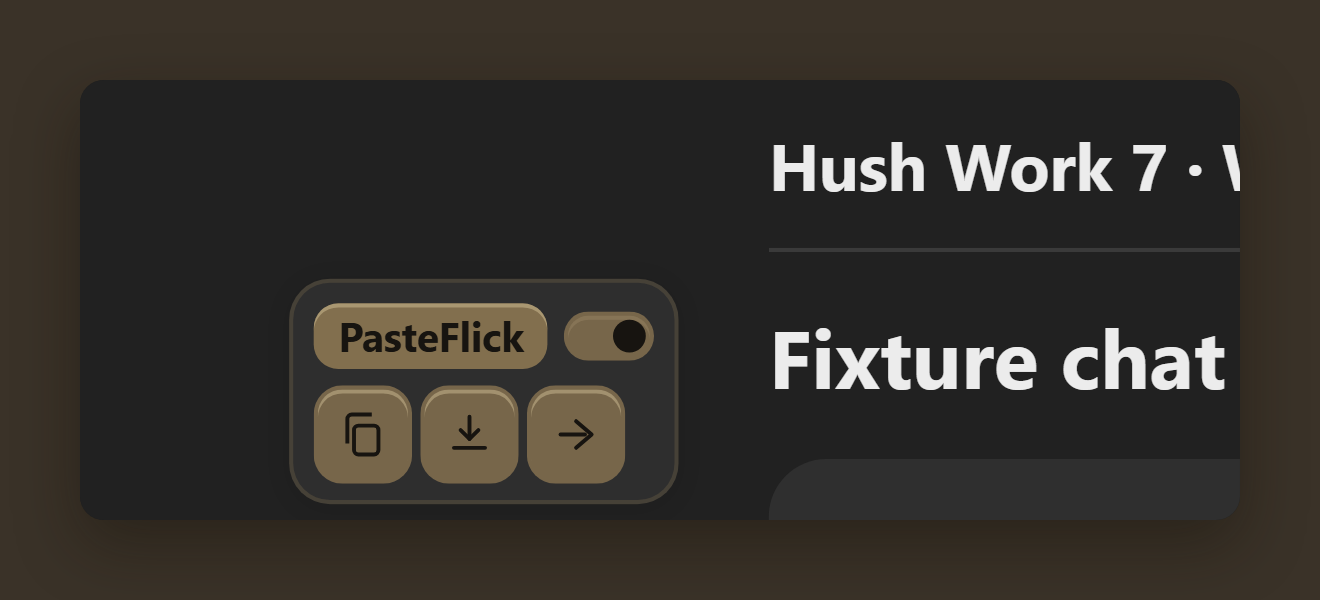
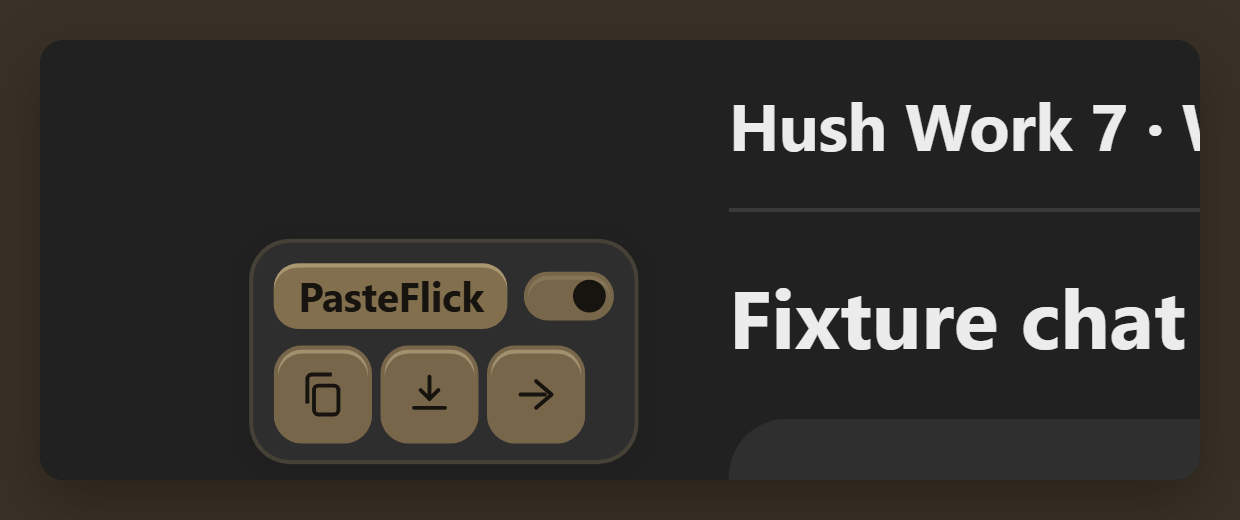
Keep the wood frame, just a thinner edge so the photos show more of the app.

diff --git a/readme/capture_shots.py b/readme/capture_shots.py
@@ -43,8 +43,8 @@ html,body{margin:0;height:100%;background:#3a3228;}
   display:flex;
   align-items:center;
   justify-content:center;
-  gap:32px;
-  padding:40px 36px;
+  gap:22px;
+  padding:16px 18px;
 }
 iframe{
   border:0;
@@ -81,7 +81,7 @@ html,body{margin:0;height:100%;background:#3a3228;}
   display:flex;
   align-items:center;
   justify-content:center;
-  padding:36px;
+  padding:16px;
 }
 .crop{
   width:580px;
@@ -133,7 +133,7 @@ html,body{{margin:0;height:100%;background:{page_bg};}}
   display:flex;
   align-items:center;
   justify-content:center;
-  padding:40px 36px;
+  padding:16px 18px;
 }}
 iframe{{border:0;width:{w}px;height:{h}px;border-radius:12px;overflow:hidden;
 box-shadow:0 12px 32px rgba(20,14,8,.4);background:{frame_bg};}}
@@ -228,11 +228,11 @@ def main() -> None:
     time.sleep(0.2)
     base = f"http://127.0.0.1:{port}"
     try:
-        shot(f"{base}/shot-chip.html", OUT / "chip.png", 660, 300, "FF3A3228")
-        shot(f"{base}/shot-pair.html", OUT / "windows.png", 760, 740, "FF3A3228")
-        shot(f"{base}/shot-popup.html", OUT / "popup.png", 380, 480, "FF3A3228")
-        shot(f"{base}/shot-settings.html", OUT / "settings.png", 380, 760, "FF3A3228")
-        shot(f"{base}/shot-chat.html", OUT / "chat.png", 1000, 820, "FF3A3228")
+        shot(f"{base}/shot-chip.html", OUT / "chip.png", 620, 260, "FF3A3228")
+        shot(f"{base}/shot-pair.html", OUT / "windows.png", 700, 690, "FF3A3228")
+        shot(f"{base}/shot-popup.html", OUT / "popup.png", 360, 410, "FF3A3228")
+        shot(f"{base}/shot-settings.html", OUT / "settings.png", 360, 690, "FF3A3228")
+        shot(f"{base}/shot-chat.html", OUT / "chat.png", 960, 760, "FF3A3228")
     finally:
         httpd.shutdown()
     print("ok")
